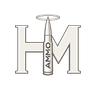
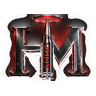
The HM lands: the real mark takes the fifth tab from the hanger.
CUTTING IT OUT. The artwork is emissive - chrome and red light on pure
black, with the glow bleeding outward as part of the design. A hard matte
would have sliced that halo off at an arbitrary radius and left a disc,
so alpha comes from the artwork's own light instead: luminance, pushed so
mid tones go solid fast and the falloff stays soft exactly where the glow
is soft. Under that rule alone the dark bevels INSIDE the letters would
have gone transparent, so the solid body is found separately - threshold,
then flood the outside in from the border and treat whatever is left as
an enclosed hole - and forced opaque. Union of the two: solid letters,
real glow.

Trimming had the same trap in reverse. The glow carries non-zero alpha
all the way to the frame, so getbbox() on the composed image returned the
whole frame and the mark floated in a sea of its own halo. The bounds
come off the solid body with a margin added back.

FOUR CUTS OF ONE ARTWORK, because one file cannot do all of these jobs:
  hm-mark-wide.webp  the full mark - emblem row, hero, anywhere with room
  hm-mark-bar.webp   the fifth tab
  hm-mark.png        512 square - share cards, anything expecting a square
  hm-mark-96.png     the favicon

The bar cut exists because the first attempt was a smudge. At 28px the
full mark is dark chrome, a fine AMMO headstamp and bevels, and most of
its box is the halo's headroom and the glow's margin - so the letters
[…]

diff --git a/js/tabbar.js b/js/tabbar.js
@@ -44,19 +44,19 @@
     '<path d="M5.2 5.6h13.6a1.4 1.4 0 0 1 1.4 1.4v8.4H3.8V7a1.4 1.4 0 0 1 1.4-1.4z"/>' +
     '<path d="M2.2 15.4h19.6l-1 2a1.6 1.6 0 0 1-1.5.9H4.7a1.6 1.6 0 0 1-1.5-.9z"/>';
 
-  /* THE FIFTH TAB IS THE STORE AGAIN.
+  /* THE FIFTH TAB WEARS THE REAL MARK.
      The laptop said "here is a page of things"; the bubble said "ask me";
-     the hanger says "there is something here to buy". The home page's own
-     Lock In room is the conversation now, so the bar no longer has to be
-     the way to one. LAPTOP and CHAT are both kept because the wing's icon
-     map still names them, and a glyph nobody draws is cheaper than a
-     lookup that returns nothing.
-     Same 24-grid as ICONS.hang below, which is this same drawing: the tab
-     and its wing slot are one glyph, as the laptop and the bubble were. */
-  var HANGER =
-    '<path d="M12 6a2 2 0 1 1 2-2"/>' +
-    '<path d="M12 6l8.2 5.8a1.5 1.5 0 0 1-.9 2.7H4.7a1.5 1.5 0 0 1-.9-2.7z"/>' +
-    '<path d="M6.5 14.5V20M17.5 14.5V20"/>';
+     the hanger said "there is something here to buy". None of them was the
+     brand. The tab is Hitman Halo now and it carries the actual HM — the
+     round between the letters, under the halo — as artwork rather than as
+     a line drawing of one, because that mark is the whole identity and a
+     traced approximation of it would be a worse version of something that
+     already exists.
+     Its wing slot keeps a glyph (ICONS.halo): the full mark is chrome,
+     glow and an AMMO headstamp, and at the 24px of a wing list all of that
+     collapses into mud. LAPTOP and CHAT stay because the icon map still
+     names them, and a glyph nobody draws is cheaper than a lookup that
+     returns nothing. */
   var CHAT =
     '<path d="M4.4 4.9h15.2a1.6 1.6 0 0 1 1.6 1.6v8.2a1.6 1.6 0 0 1-1.6 1.6H10l-4.5 3.4v-3.4H4.4a1.6 1.6 0 0 1-1.6-1.6V6.5a1.6 1.6 0 0 1 1.6-1.6z"/>' +
     '<path d="M7.6 9.3h8.8"/><path d="M7.6 12.2h5.6"/>';
@@ -97,7 +97,8 @@
          Chat did not lose anything: it is the second slot of this wing,
          one hold away, with the Inner Room and Give. */
       '<a class="appbar__tab" href="' + ROOT + 'prayer-closet.html" data-appnav="sites">' +
-        '<svg viewBox="0 0 24 24" aria-hidden="true">' + HANGER + '</svg><span>Hitman</span></a>' +
+        '<img class="appbar__hm" src="' + ROOT + 'assets/img/hm-mark-bar.webp" alt="">' +
+        '<span>Hitman</span></a>' +
       '<a class="appbar__tab" href="' + ROOT + 'account.html" data-appnav="profile">' +
         '<svg viewBox="0 0 24 24" aria-hidden="true"><circle cx="12" cy="8" r="3.6"/>' +
         '<path d="M4.5 20a7.5 7.5 0 0 1 15 0"/></svg><span>Profile</span></a>';
@@ -209,7 +210,7 @@
            tooltip. Prices are not typed here any more; the conversation
            quotes them from the ledger, and the Closet quotes them from
            whatever checkout carries the drop. */
-        ["prayer-closet.html", "hang", "Hitman Halo", { title: "Hitman Halo",
+        ["prayer-closet.html", "halo", "Hitman Halo", { title: "Hitman Halo",
           sub: "Limited drops with meaning behind the garment. Season 001 cuts three hoodie-and-jogger sets from the book of Matthew." }],
         ["sites.html", "chat", "Chat", { title: "Talk to the desk",
           sub: "Ask what it costs, check whether your address is free, and buy it in the same conversation. A person reads all of it." }],
@@ -292,6 +293,11 @@
     folder: '<path d="M3 7a2 2 0 0 1 2-2h4l2 2.5h8a2 2 0 0 1 2 2V17a2 2 0 0 1-2 2H5a2 2 0 0 1-2-2z"/>',
     news: '<rect x="3" y="4.5" width="15" height="15" rx="2"/><path d="M18 8h1.5a1.5 1.5 0 0 1 1.5 1.5V17a2.5 2.5 0 0 1-2.5 2.5H5"/><path d="M6.5 8.5h8M6.5 12h8M6.5 15.5h5"/>',
     desk: '<circle cx="12" cy="8" r="3.6"/><path d="M4.5 20a7.5 7.5 0 0 1 15 0"/>',
+    /* the round under the halo: the HM mark's silhouette, reduced to the
+       two shapes that still read at 24px */
+    halo: '<ellipse cx="12" cy="4.1" rx="5.2" ry="1.9"/>' +
+      '<path d="M12 6.6 14.1 11v7.2a2.1 2.1 0 0 1-2.1 2.1 2.1 2.1 0 0 1-2.1-2.1V11z"/>' +
+      '<path d="M9.9 15.3h4.2"/>',
     hang: '<path d="M12 6a2 2 0 1 1 2-2"/><path d="M12 6l8.2 5.8a1.5 1.5 0 0 1-.9 2.7H4.7a1.5 1.5 0 0 1-.9-2.7z"/><path d="M6.5 14.5V20M17.5 14.5V20"/>',
     shot: '<path d="M3 8.5a2 2 0 0 1 2-2h2.2l1.3-2h6.8l1.3 2H19a2 2 0 0 1 2 2v9a2 2 0 0 1-2 2H5a2 2 0 0 1-2-2z"/><circle cx="12" cy="12.8" r="3.6"/>',
     lamp: '<path d="M12 20V7"/><path d="M12 7c-2.6-2.2-5.6-2.6-8-2v12c2.4-.6 5.4-.2 8 2 2.6-2.2 5.6-2.6 8-2V5c-2.4-.6-5.4-.2-8 2z"/>',

diff --git a/css/style.css b/css/style.css
@@ -1810,6 +1810,11 @@ html.is-installed .getapp,html.is-installed .getapp-pill{display:none !important
 .app-crumb{position:fixed;top:calc(0.8rem + env(safe-area-inset-top));left:50%;transform:translateX(-50%);z-index:210;padding:0.45em 1.1em;border-radius:100px;text-decoration:none;background:rgba(10,8,7,0.75);backdrop-filter:blur(8px);border:1px solid rgba(229,56,59,0.5);color:var(--cream);font-size:0.78rem;font-weight:700;letter-spacing:0.14em;text-transform:uppercase}
 .app-crumb:hover{background:rgba(193,18,31,0.4)}
 .appbar__m{width:1.75rem;height:1.75rem;object-fit:contain;display:block}
+/* THE HM RIDES ON ITS HEIGHT, not on a square. The mark is 1.4:1 and the
+   bar already carries a wide icon (the EQ glyph is nearly 2:1), so matching
+   the other tabs' height and letting the width follow keeps every tab's
+   optical weight equal without squashing a logo into a box it is not. */
+.appbar__hm{height:2rem;width:auto;max-width:3.1rem;object-fit:contain;display:block;margin-block:-0.12rem}
 html[data-theme="light"] .appbar__tab[data-appnav="home"] .appbar__m{content:url("../assets/img/m-mark-dark.png")}
 /* the fifth tab wore the halo PNG, which needed a bigger box than the M
    coin (baked-in transparent margin) and a dark pill under it on the light

diff --git a/closet/sent.html b/closet/sent.html
@@ -75,7 +75,7 @@
       <span>HERE</span>
     </a>
     <a class="appbar__tab" href="../prayer-closet.html" data-appnav="sites">
-      <svg viewBox="0 0 24 24" aria-hidden="true"><path d="M12 6a2 2 0 1 1 2-2"/><path d="M12 6l8.2 5.8a1.5 1.5 0 0 1-.9 2.7H4.7a1.5 1.5 0 0 1-.9-2.7z"/><path d="M6.5 14.5V20M17.5 14.5V20"/></svg>
+      <img class="appbar__hm" src="../assets/img/hm-mark-bar.webp" alt="">
       <span>Hitman</span>
     </a>
     <a class="appbar__tab" href="../account.html" data-appnav="profile">

diff --git a/account.html b/account.html
@@ -133,7 +133,7 @@
       <span>HERE</span>
     </a>
     <a class="appbar__tab" href="prayer-closet.html" data-appnav="sites">
-      <svg viewBox="0 0 24 24" aria-hidden="true"><path d="M12 6a2 2 0 1 1 2-2"/><path d="M12 6l8.2 5.8a1.5 1.5 0 0 1-.9 2.7H4.7a1.5 1.5 0 0 1-.9-2.7z"/><path d="M6.5 14.5V20M17.5 14.5V20"/></svg>
+      <img class="appbar__hm" src="assets/img/hm-mark-bar.webp" alt="">
       <span>Hitman</span>
     </a>
     <a class="appbar__tab" href="account.html" data-appnav="profile">

diff --git a/admin.html b/admin.html
@@ -186,7 +186,7 @@
       <span>HERE</span>
     </a>
     <a class="appbar__tab" href="prayer-closet.html" data-appnav="sites">
-      <svg viewBox="0 0 24 24" aria-hidden="true"><path d="M12 6a2 2 0 1 1 2-2"/><path d="M12 6l8.2 5.8a1.5 1.5 0 0 1-.9 2.7H4.7a1.5 1.5 0 0 1-.9-2.7z"/><path d="M6.5 14.5V20M17.5 14.5V20"/></svg>
+      <img class="appbar__hm" src="assets/img/hm-mark-bar.webp" alt="">
       <span>Hitman</span>
     </a>
     <a class="appbar__tab" href="account.html" data-appnav="profile">

diff --git a/album.html b/album.html
@@ -688,7 +688,7 @@
       <span>HERE</span>
     </a>
     <a class="appbar__tab" href="prayer-closet.html" data-appnav="sites">
-      <svg viewBox="0 0 24 24" aria-hidden="true"><path d="M12 6a2 2 0 1 1 2-2"/><path d="M12 6l8.2 5.8a1.5 1.5 0 0 1-.9 2.7H4.7a1.5 1.5 0 0 1-.9-2.7z"/><path d="M6.5 14.5V20M17.5 14.5V20"/></svg>
+      <img class="appbar__hm" src="assets/img/hm-mark-bar.webp" alt="">
       <span>Hitman</span>
     </a>
     <a class="appbar__tab" href="account.html" data-appnav="profile">

diff --git a/card.html b/card.html
@@ -160,7 +160,7 @@
       <span>HERE</span>
     </a>
     <a class="appbar__tab" href="prayer-closet.html" data-appnav="sites">
-      <svg viewBox="0 0 24 24" aria-hidden="true"><path d="M12 6a2 2 0 1 1 2-2"/><path d="M12 6l8.2 5.8a1.5 1.5 0 0 1-.9 2.7H4.7a1.5 1.5 0 0 1-.9-2.7z"/><path d="M6.5 14.5V20M17.5 14.5V20"/></svg>
+      <img class="appbar__hm" src="assets/img/hm-mark-bar.webp" alt="">
       <span>Hitman</span>
     </a>
     <a class="appbar__tab" href="account.html" data-appnav="profile">

diff --git a/console.html b/console.html
@@ -137,7 +137,7 @@
       <span>HERE</span>
     </a>
     <a class="appbar__tab" href="prayer-closet.html" data-appnav="sites">
-      <svg viewBox="0 0 24 24" aria-hidden="true"><path d="M12 6a2 2 0 1 1 2-2"/><path d="M12 6l8.2 5.8a1.5 1.5 0 0 1-.9 2.7H4.7a1.5 1.5 0 0 1-.9-2.7z"/><path d="M6.5 14.5V20M17.5 14.5V20"/></svg>
+      <img class="appbar__hm" src="assets/img/hm-mark-bar.webp" alt="">
       <span>Hitman</span>
     </a>
     <a class="appbar__tab" href="account.html" data-appnav="profile">

diff --git a/crm.html b/crm.html
@@ -126,7 +126,7 @@
       <span>HERE</span>
     </a>
     <a class="appbar__tab" href="prayer-closet.html" data-appnav="sites">
-      <svg viewBox="0 0 24 24" aria-hidden="true"><path d="M12 6a2 2 0 1 1 2-2"/><path d="M12 6l8.2 5.8a1.5 1.5 0 0 1-.9 2.7H4.7a1.5 1.5 0 0 1-.9-2.7z"/><path d="M6.5 14.5V20M17.5 14.5V20"/></svg>
+      <img class="appbar__hm" src="assets/img/hm-mark-bar.webp" alt="">
       <span>Hitman</span>
     </a>
     <a class="appbar__tab" href="account.html" data-appnav="profile">

diff --git a/docket-516.html b/docket-516.html
@@ -551,7 +551,7 @@
       <span>HERE</span>
     </a>
     <a class="appbar__tab" href="prayer-closet.html" data-appnav="sites">
-      <svg viewBox="0 0 24 24" aria-hidden="true"><path d="M12 6a2 2 0 1 1 2-2"/><path d="M12 6l8.2 5.8a1.5 1.5 0 0 1-.9 2.7H4.7a1.5 1.5 0 0 1-.9-2.7z"/><path d="M6.5 14.5V20M17.5 14.5V20"/></svg>
+      <img class="appbar__hm" src="assets/img/hm-mark-bar.webp" alt="">
       <span>Hitman</span>
     </a>
     <a class="appbar__tab" href="account.html" data-appnav="profile">

diff --git a/ecosystem.html b/ecosystem.html
@@ -225,7 +225,7 @@
       <span>HERE</span>
     </a>
     <a class="appbar__tab" href="prayer-closet.html" data-appnav="sites">
-      <svg viewBox="0 0 24 24" aria-hidden="true"><path d="M12 6a2 2 0 1 1 2-2"/><path d="M12 6l8.2 5.8a1.5 1.5 0 0 1-.9 2.7H4.7a1.5 1.5 0 0 1-.9-2.7z"/><path d="M6.5 14.5V20M17.5 14.5V20"/></svg>
+      <img class="appbar__hm" src="assets/img/hm-mark-bar.webp" alt="">
       <span>Hitman</span>
     </a>
     <a class="appbar__tab" href="account.html" data-appnav="profile">

diff --git a/equity-uprise.html b/equity-uprise.html
@@ -622,7 +622,7 @@
       <span>HERE</span>
     </a>
     <a class="appbar__tab" href="prayer-closet.html" data-appnav="sites">
-      <svg viewBox="0 0 24 24" aria-hidden="true"><path d="M12 6a2 2 0 1 1 2-2"/><path d="M12 6l8.2 5.8a1.5 1.5 0 0 1-.9 2.7H4.7a1.5 1.5 0 0 1-.9-2.7z"/><path d="M6.5 14.5V20M17.5 14.5V20"/></svg>
+      <img class="appbar__hm" src="assets/img/hm-mark-bar.webp" alt="">
       <span>Hitman</span>
     </a>
     <a class="appbar__tab" href="account.html" data-appnav="profile">
